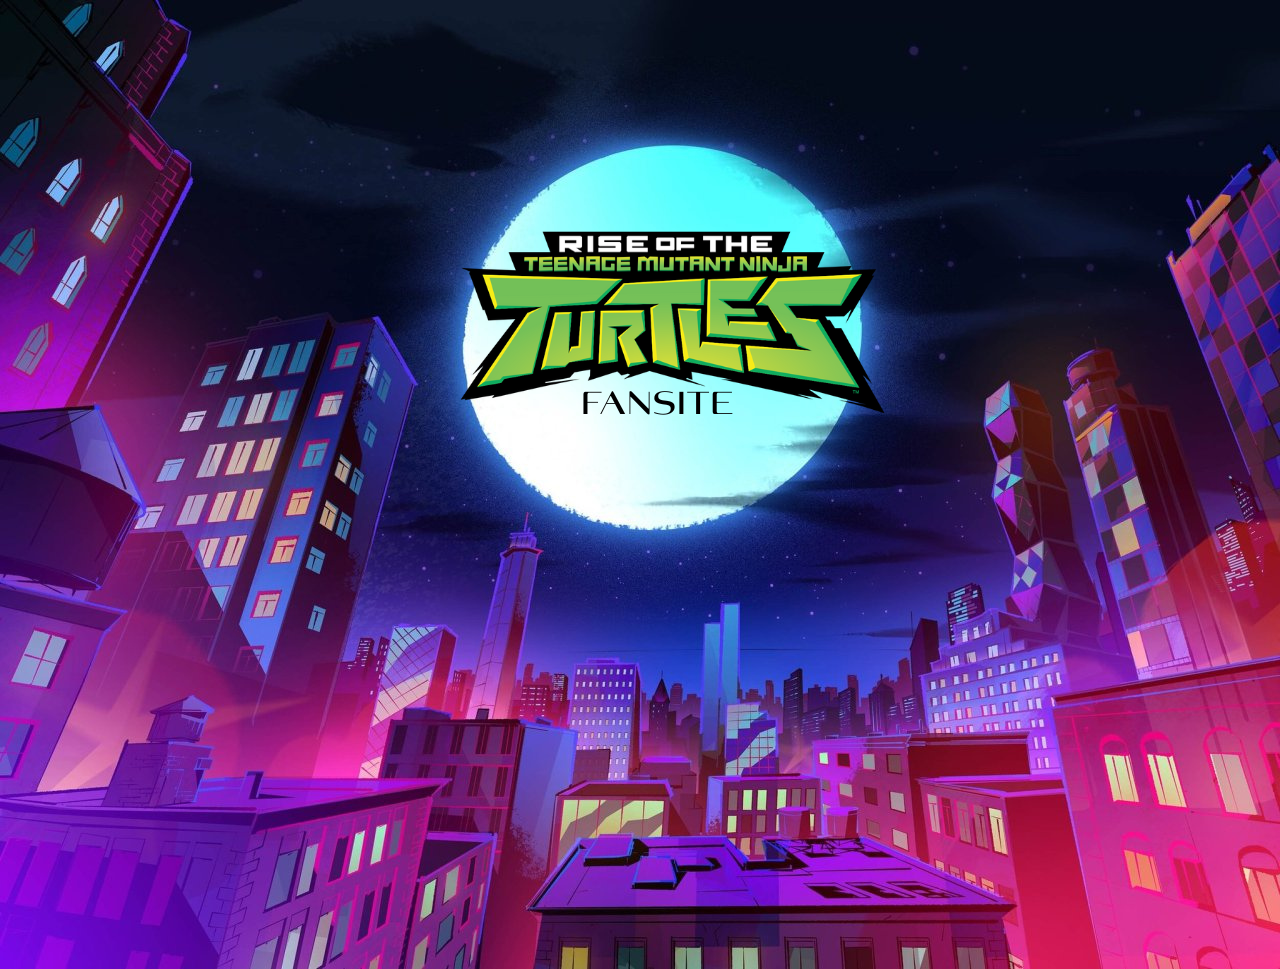
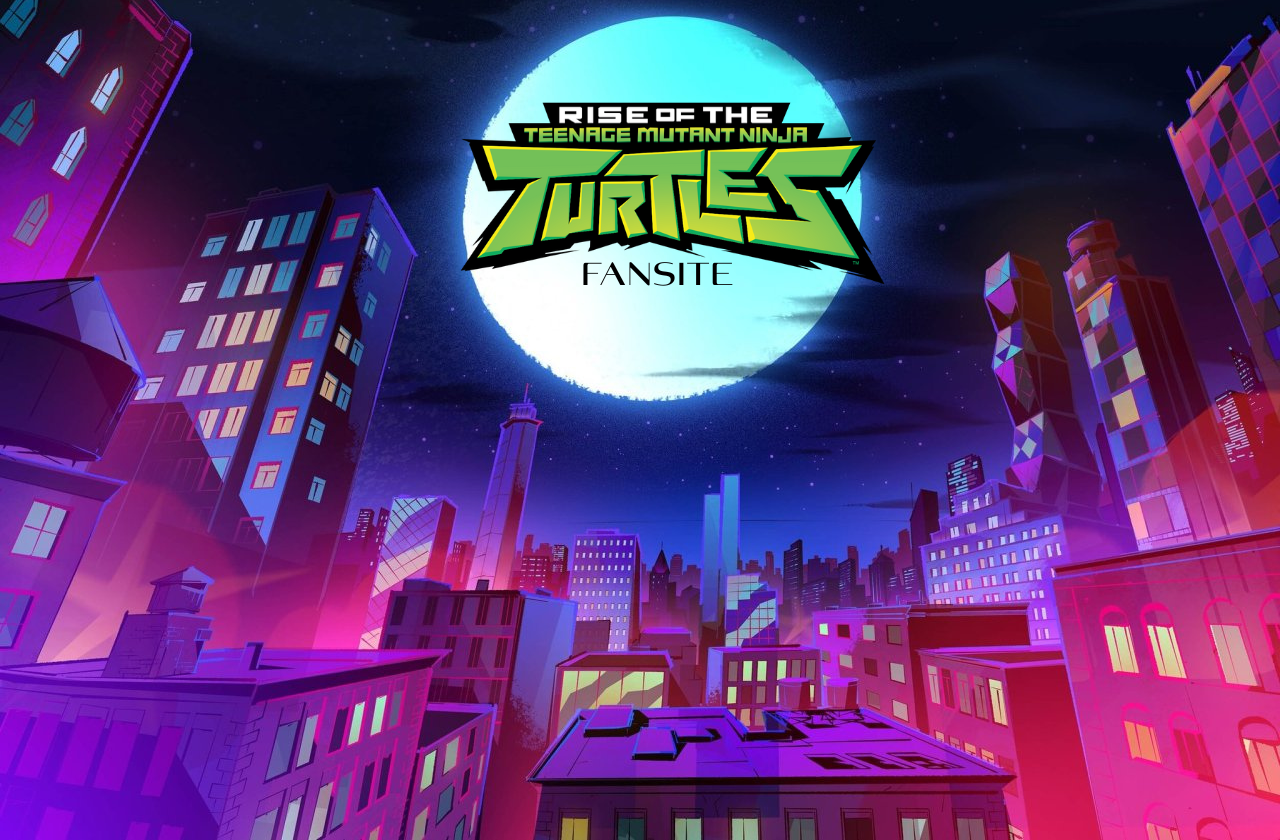
page d'accueil presque fini

diff --git a/index.html b/index.html
@@ -1,57 +1,99 @@
 <!DOCTYPE html>
 <html lang="en">
+
 <head>
     <meta charset="UTF-8">
     <title>Rise of the TMNT - Fansite</title>
     <link rel="stylesheet" href="assets/css/fansite.css">
 </head>
+
 <body>
     <header>
         <nav>
-                <ul>
-                    <li><a href="index.html">ACCUEIL</a></li>
-                    <div class="header-right">
-                        <li class="nav-item dropdown">
-                            <a href="#">EXPLORER</a>
-                            <ul class="dropdown-content">
-                                <li><a href="index.html">CONCEPTS</a></li>
-                                <li><a href="index.html">GALERIE</a></li>
-                            </ul>
-                        </li>
-                        <li class="nav-bars"> | </li>
-                        <li><a href="contact.html">CONTACT</a></li>
-                    </div>
-                </ul>
-    </nav>
+            <ul>
+                <li><a href="index.html">ACCUEIL</a></li>
+                <div class="header-right">
+                    <li class="nav-item dropdown">
+                        <a href="#">EXPLORER</a>
+                        <ul class="dropdown-content">
+                            <li><a href="index.html">CONCEPTS</a></li>
+                            <li><a href="index.html">GALERIE</a></li>
+                        </ul>
+                    </li>
+                    <li class="nav-bars"> | </li>
+                    <li><a href="contact.html">CONTACT</a></li>
+                </div>
+            </ul>
+        </nav>
     </header>
     <main>
+        <!-- _____________________ ECRAN 2 _____________________ -->
         <div class="ecran2">
             <h2>ACTUALITES</h2><br>
-            <h3>Titre</h3>
-            <p>Date</p>
-            <br><p>Resume des actualités</p>
+            <div class="news">
+                <div class="news-row">
+                    <h3>Titre</h3>
+                    <p>Date</p>
+                </div>
+                <p>Resume des actualités</p>
+            </div>
+            <div class="news">
+                <div class="news-row">
+                    <h3>Titre</h3>
+                    <p>Date</p>
+                </div>
+                <p>Resume des actualités</p>
+            </div>
+            <div class="news">
+                <div class="news-row">
+                    <h3>Titre</h3>
+                    <p>Date</p>
+                </div>
+                <p>Resume des actualités</p>
+            </div>
+            <div class="news">
+                <div class="news-row">
+                    <h3>Titre</h3>
+                    <p>Date</p>
+                </div>
+                <p>Resume des actualités</p>
+            </div>
         </div>
+        <!-- _____________________ ECRAN 1 _____________________ -->
         <div class="ecran1">
             <h2>EVENEMENTS</h2><br>
-            <h3>Titre</h3>
-            <p>Date</p>
-            <br><p>Resume des actualités</p>
+            <div class="event">
+                <div class="event-row">
+                    <h3>Evenement 1</h3>
+                    <p>Date</p>
+                </div>
+                <p>Resume de l'événement</p>
+            </div>
+            <div class="event">
+                <div class="event-row">
+                    <h3>Evenement 2</h3>
+                    <p>Date</p>
+                </div>
+                <p>Resume de l'événement</p>
+            </div>
         </div>
+
         <img src="assets/img/ville1.png" class="buildings">
     </main>
     <footer>
-         <ul>
-                    <li><a href="index.html">Lien 1</a></li>
-                    <li><a href="index.html">Lien 2</a></li>
-                    <li><a href="index.html">Lien 3</a></li>
-                    <li><a href="index.html">Lien 4</a></li>
-         </ul>
-         <ul>
-                    <li><a href="index.html">Lien 1</a></li>
-                    <li><a href="index.html">Lien 2</a></li>
-                    <li><a href="index.html">Lien 3</a></li>
-                    <li><a href="index.html">Lien 4</a></li>
-         </ul>
+        <ul class="links">
+            <li><a href="index.html">Lien 1</a></li>
+            <li><a href="index.html">Lien 2</a></li>
+            <li><a href="index.html">Lien 3</a></li>
+            <li><a href="index.html">Lien 4</a></li>
+        </ul>
+        <ul class="contacts">
+            <li><a href="index.html">Lien 1</a></li>
+            <li><a href="index.html">Lien 2</a></li>
+            <li><a href="index.html">Lien 3</a></li>
+            <li><a href="index.html">Lien 4</a></li>
+        </ul>
     </footer>
 </body>
+
 </html>

diff --git a/assets/css/fansite.css b/assets/css/fansite.css
@@ -21,14 +21,14 @@ nav {
   align-items: center;
 }
 
-ul {
+header ul {
   display: flex;
   align-items: center;
   width: 100%;
   justify-content: space-between;
 }
 
-li {
+header li {
     display: inline;
     padding-left: 5%;
     color: white;
@@ -77,12 +77,11 @@ li {
 
 body {
   min-height: 50px;
-  margin-top: 0;
 }
 
 main {
   position: relative;
-  min-height: 900px;
+  min-height: 600px;
   overflow: hidden;
   background-image: url('../img/Fansite.png'); 
   background-size: cover;
@@ -90,38 +89,79 @@ main {
   background-repeat: no-repeat;
   margin: 0;
   padding: 0;
-  padding-top: 100px;
-  clip-path: inset(100px 0 0 0);
+  padding-top: 20px;
 }
 
+/* ECRAN 1 ____________________________________________ */
+
 .ecran1 {
-  background-image: url('../img/ecran1.png'); 
-  height: 400px;
-  width: 700px;
-  position: absolute;
-  top: 50%;
-  left: 30%;
-  transform: translate(-50%, -50%);
-  border: 4px solid #c2c6cf;
-  border-radius: 5px;
-  box-shadow: 15px 10px 25px #9ed3ff7c;
-  text-align: center;
+  background-image: url('../img/ecran2.png'); 
+  height: 50vh;
+  width: 130vh;
+  top: 67%;
+  left: 32%;
 }
+
+.ecran1 h2{
+  padding-right: 90vh;
+
+  color: rgba(131, 27, 27, 0.699);
+}
+
+.event {
+  background-color: rgba(255, 0, 0, 0.164);
+  border: 2px solid #ffffff;
+  border-radius: 5px;
+  margin: 10px;
+  padding: 10px;
+  text-align: left;
+  width: 90%;
+  height: 10vh;
+}
+
+.event h3 {
+  color: rgba(87, 11, 11, 0.486);
+}
+.event-row {
+  display: flex;
+  align-items: center;
+  gap: 20px;
+}
+
+/* ECRAN 2 ____________________________________________ */
 
 .ecran2 {
   background-image: url('../img/ecran1.png'); 
-  height: 500px;
-  width: 400px;
+  height: 80vh;
+  width: 70vh;
   align-items: center;
   justify-content: center;
-  position: absolute;
-  top: 50%;
-  left: 75%;
-  transform: translate(-50%, -50%);
-  border: 4px solid #c2c6cf;
+  top: 60%;
+  left: 80%;
+}
+
+.ecran2 h2{
+  color: rgb(27, 66, 131);
+}
+
+.news {
+  background-color: rgba(0, 0, 255, 0.164);
+  border: 2px solid #ffffff;
   border-radius: 5px;
-  box-shadow: 15px 10px 25px #9ed3ff7c;
-  text-align: center;
+  margin: 10px;
+  padding: 10px;
+  text-align: left;
+  width: 90%;
+  height: 10vh;
+}
+
+.news h3 {
+  color: rgb(27, 66, 131);
+}
+.news-row {
+  display: flex;
+  align-items: center;
+  gap: 20px;
 }
 
 .buildings {
@@ -129,7 +169,7 @@ main {
   height: auto;
   display: block;
   margin: 0;
-  margin-top: 250px;
+  margin-top: 150px;
   position: relative;
   z-index: 0;
   object-fit: cover;
@@ -140,6 +180,31 @@ main {
 .ecran1, .ecran2 {
   z-index: 1;
   position: absolute;
+  transform: translate(-50%, -50%);
+  border: 4px solid #c2c6cf;
+  border-radius: 5px;
+  box-shadow: 15px 10px 25px #9ed3ff7c;
+  text-align: center;
+  padding: 20px;
+  box-sizing: border-box;
+}
+
+h2 {
+  color: rgb(169, 188, 204);
+  margin-bottom: 10px;
+  font-family: 'Segoe UI', Tahoma, Geneva, Verdana, sans-serif;
+}
+
+h3 {
+  color: #c2c6cf;
+  margin-bottom: 5px;
+  font-family: 'Segoe UI', Tahoma, Geneva, Verdana, sans-serif;
+}
+
+p {
+  color: white;
+  font-family: 'Segoe UI', Tahoma, Geneva, Verdana, sans-serif;
+  font-size: 14px;
 }
 
 /* FOOTER ____________________________________________*/
@@ -150,7 +215,18 @@ footer {
   color: white;
   text-align: center;
   width: 100%;
-  height: 150px;
+  height: 120px;
   margin-top: 0;
-  padding-top: 0;
+  padding-top: 20px;
+  display: flex;
+  justify-content: space-around;
+}
+
+.links, .contacts {
+  display: block;
+}
+
+footer li {
+  list-style: none;
+  margin: 5px 0;
 }
